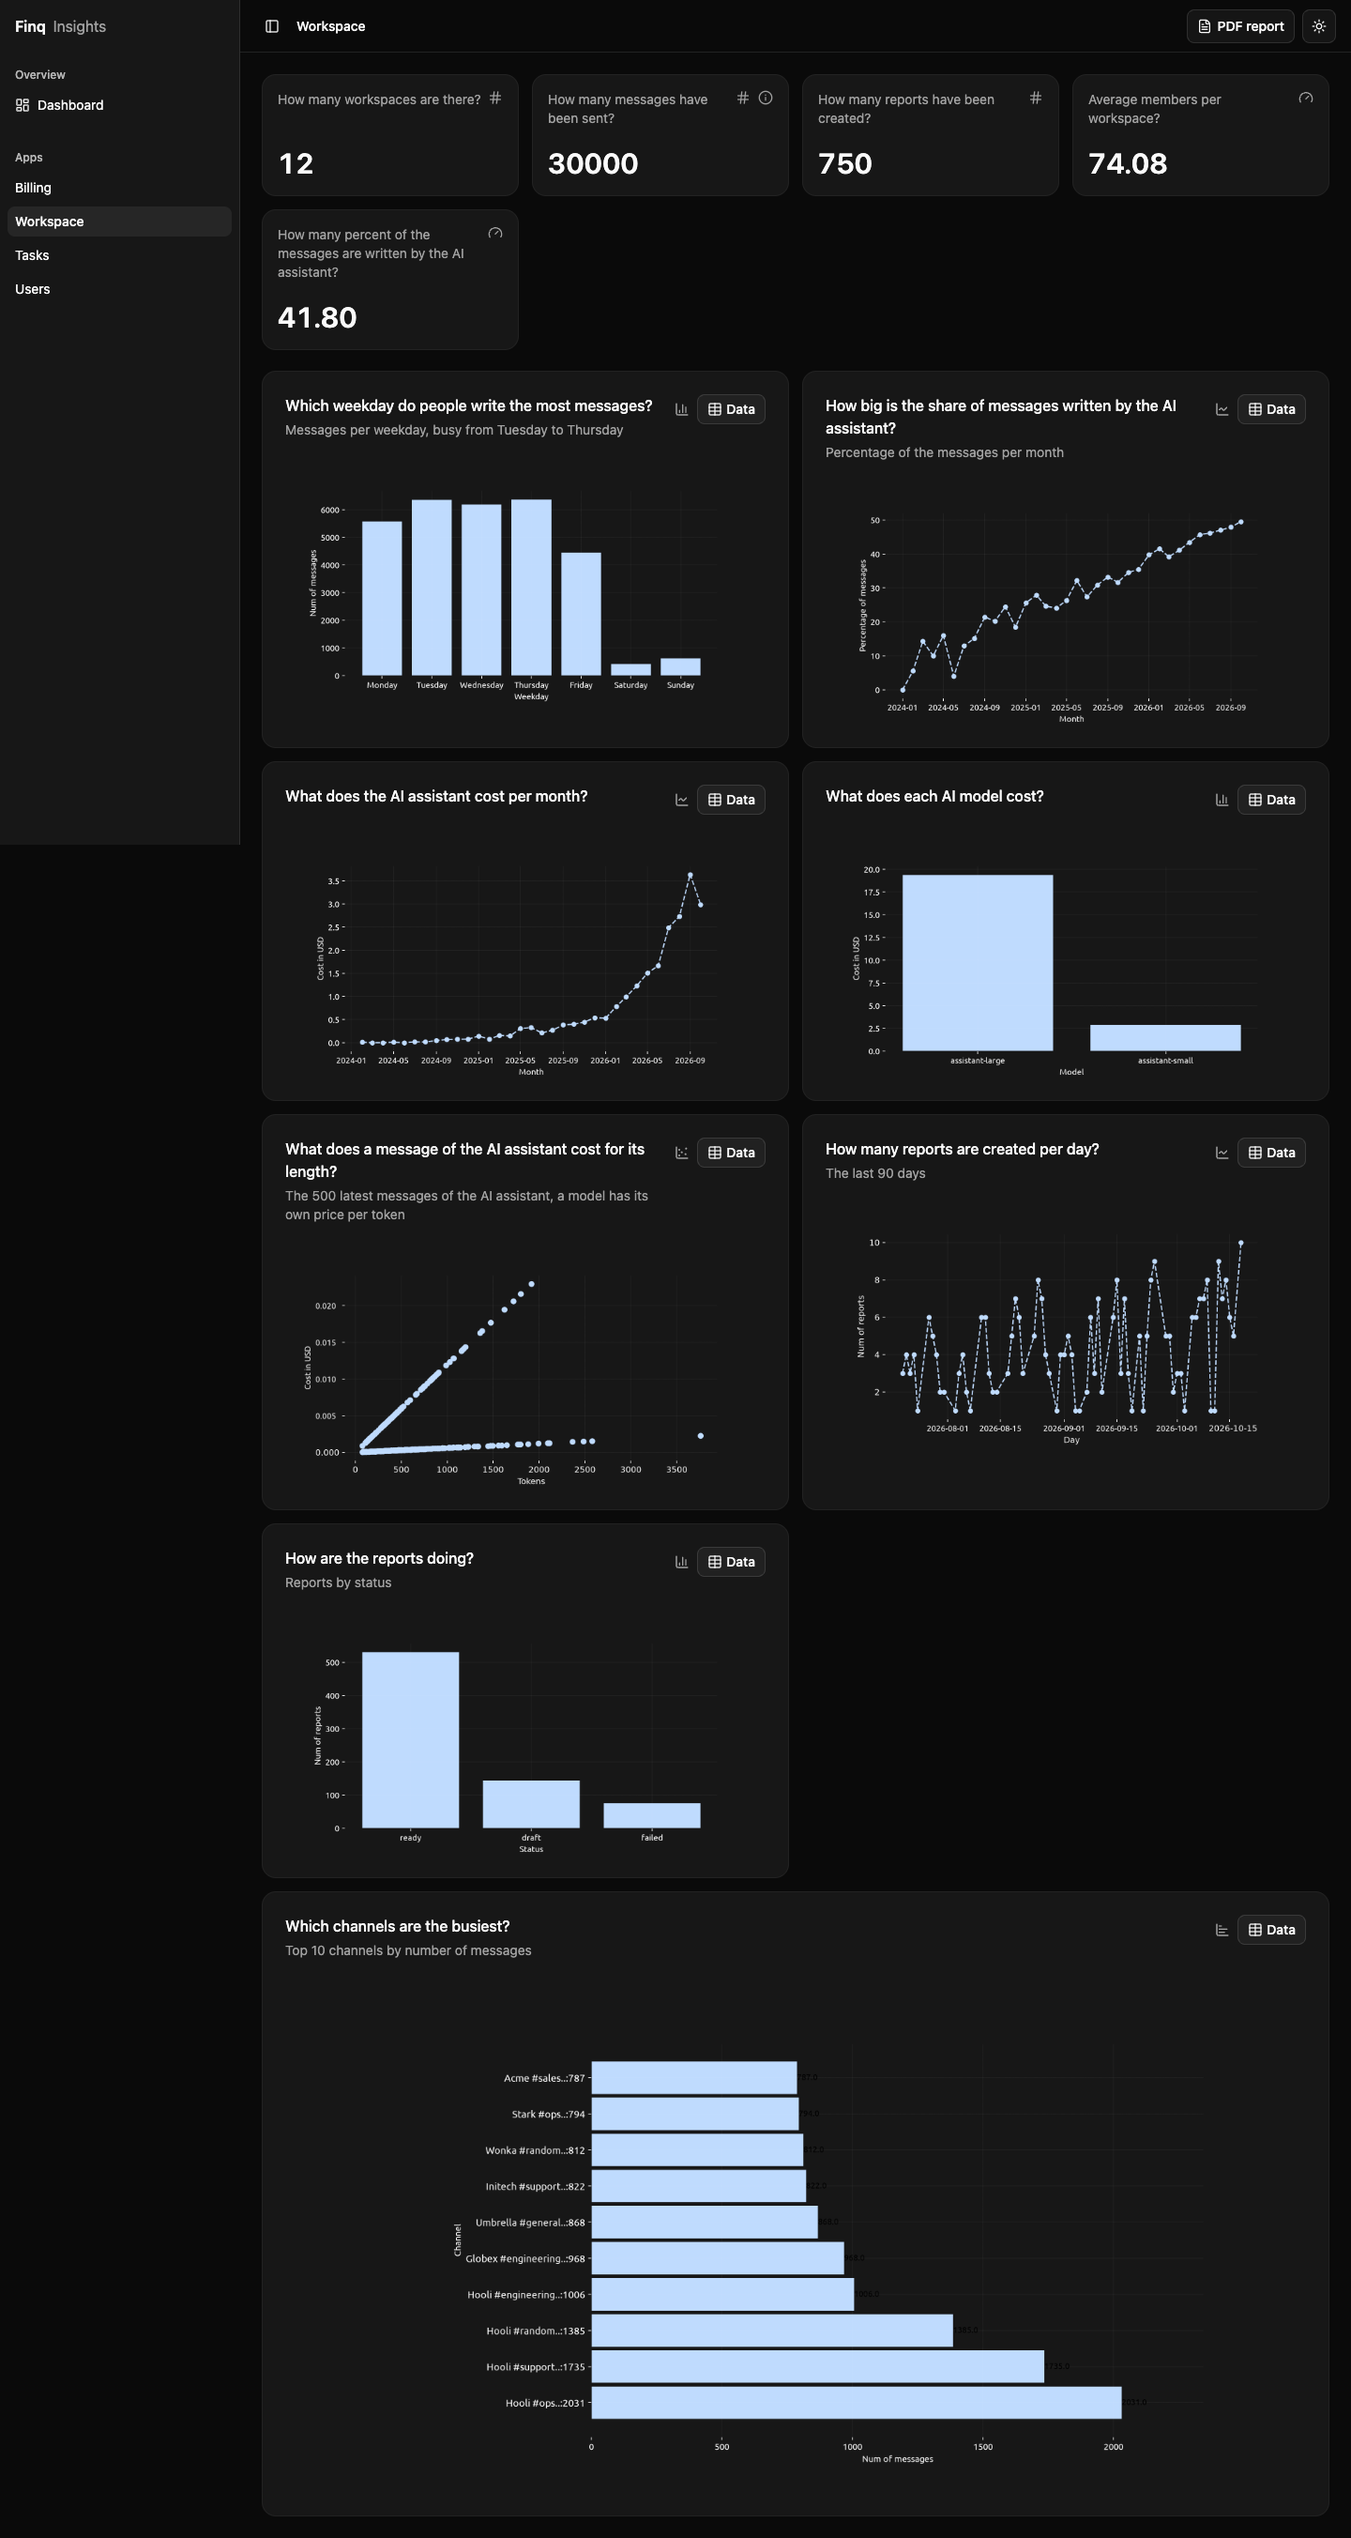
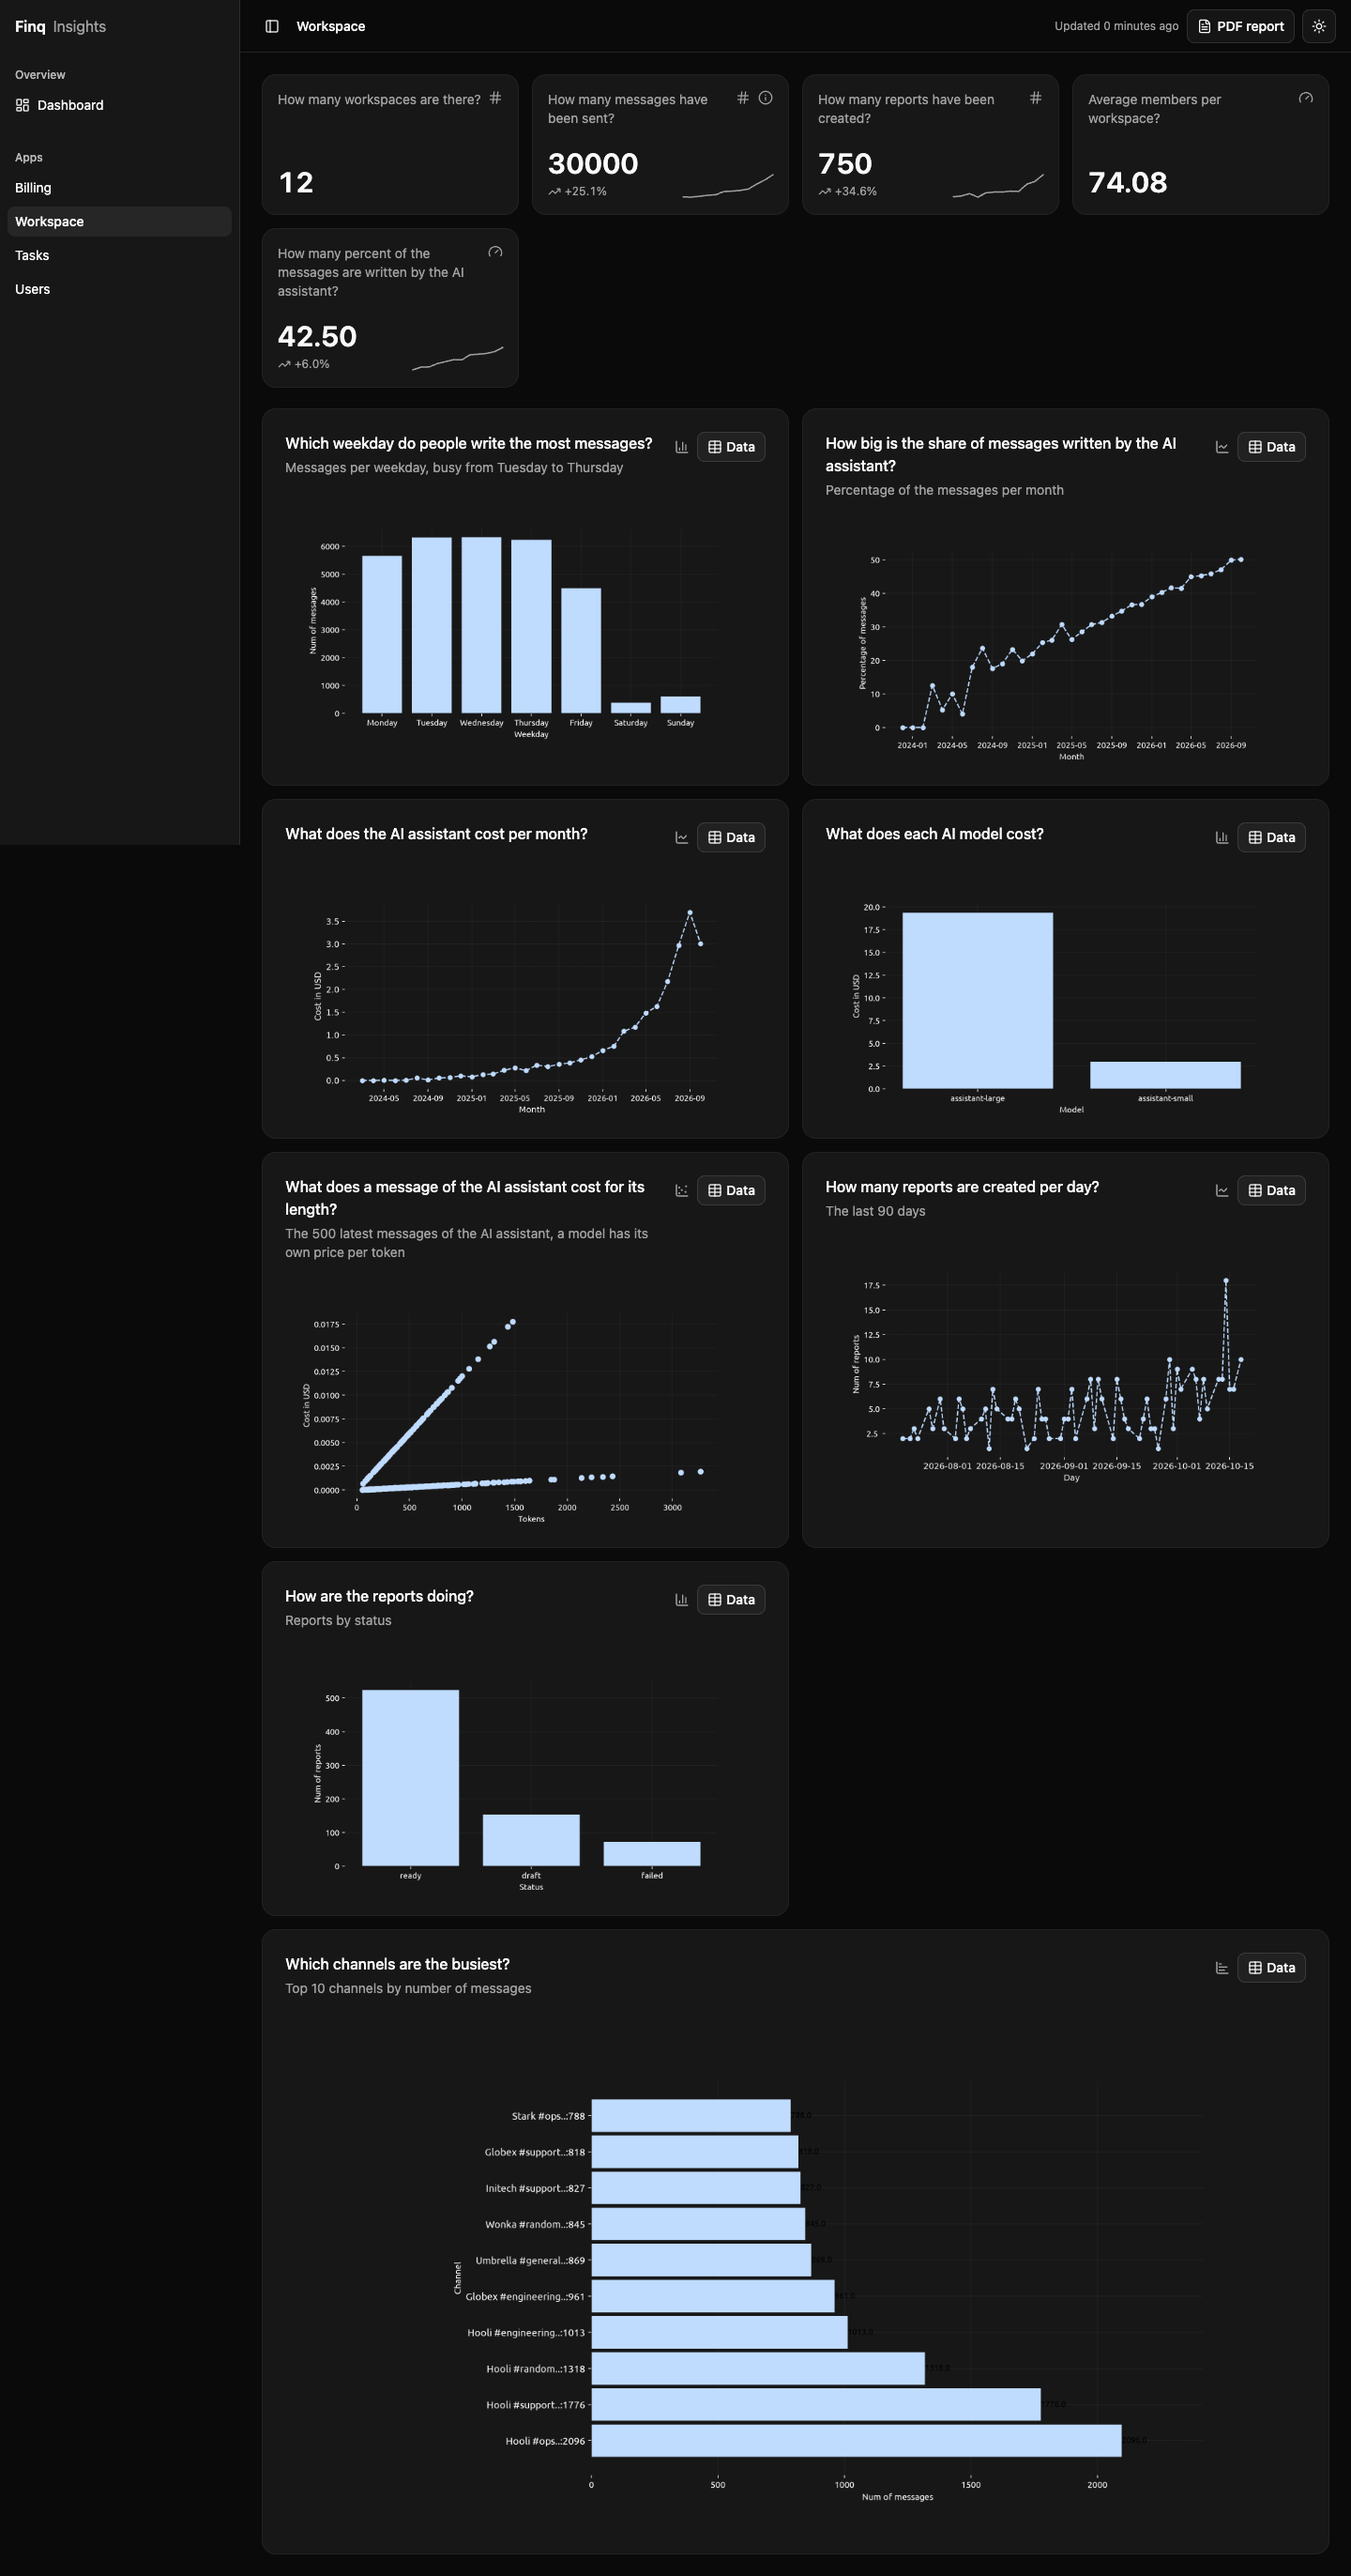
feat: add trends to the demo counters and gauges

diff --git a/project/testapp/insights.py b/project/testapp/insights.py
@@ -13,6 +13,7 @@ from django_insights.metrics_types import (
     TimeSeriesResult,
 )
 from project.testapp.models import Channel, Message, Report, Workspace
+from project.testapp.trends import monthly
 
 label = "Workspace"
 
@@ -34,13 +35,17 @@ def count_workspaces() -> int:
 
 @metrics.counter(
     question="How many messages have been sent?",
-    desc="Messages of people and of the AI assistant",
+    desc="Messages of people and of the AI assistant, the trend shows the messages per month",
+    trend=lambda: monthly(Message.objects, 'created_at'),
 )
 def count_messages() -> int:
     return Message.objects.count()
 
 
-@metrics.counter(question="How many reports have been created?")
+@metrics.counter(
+    question="How many reports have been created?",
+    trend=lambda: monthly(Report.objects, 'created_at'),
+)
 def count_reports() -> int:
     return Report.objects.count()
 
@@ -54,7 +59,13 @@ def avg_members_per_workspace() -> float:
 
 
 @metrics.gauge(
-    question="How many percent of the messages are written by the AI assistant?"
+    question="How many percent of the messages are written by the AI assistant?",
+    trend=lambda: monthly(
+        Message.objects,
+        'created_at',
+        Avg(Case(When(is_ai=True, then=1.0), default=0.0, output_field=FloatField()))
+        * 100,
+    ),
 )
 def ai_share_of_messages() -> float:
     total = Message.objects.count()

diff --git a/project/testapp/trends.py b/project/testapp/trends.py
@@ -1,0 +1,27 @@
+from __future__ import annotations
+
+from django.db.models import Count, Expression, Manager, QuerySet
+from django.db.models.functions import TruncMonth
+from django.utils import timezone
+
+from django_insights.metrics_types import TimeSeriesResult
+
+
+def monthly(
+    queryset: Manager | QuerySet,
+    field: str,
+    aggregate: Expression | None = None,
+    months: int = 12,
+) -> TimeSeriesResult:
+    """Full months only, the running month is partial and would show as a drop"""
+    end = timezone.now().replace(day=1, hour=0, minute=0, second=0, microsecond=0)
+    number = end.year * 12 + end.month - 1 - months
+    start = end.replace(year=number // 12, month=number % 12 + 1)
+    return (
+        queryset.filter(**{f'{field}__gte': start, f'{field}__lt': end})
+        .annotate(month=TruncMonth(field))
+        .values('month')
+        .annotate(total=aggregate or Count('pk'))
+        .values_list('month', 'total')
+        .order_by('month')
+    )

diff --git a/project/testapp/billing/insights.py b/project/testapp/billing/insights.py
@@ -6,6 +6,7 @@ from django.db.models.functions import TruncMonth
 from django_insights.metrics import metrics
 from django_insights.metrics_types import BarChartResult, TimeSeriesResult
 from project.testapp.billing.models import Invoice, Subscription
+from project.testapp.trends import monthly
 
 label = "Billing"
 
@@ -22,6 +23,9 @@ def count_paying_subscriptions() -> int:
 @metrics.gauge(
     question="What is the monthly recurring revenue?",
     desc="Sum of the monthly price of all active subscriptions, in USD",
+    trend=lambda: monthly(
+        Invoice.objects.filter(status=Invoice.Status.PAID), 'issued_at', Sum('amount')
+    ),
 )
 def monthly_recurring_revenue() -> float:
     total = Subscription.objects.filter(ended_at__isnull=True).aggregate(

diff --git a/project/testapp/users/insights.py b/project/testapp/users/insights.py
@@ -5,6 +5,7 @@ from django.db.models.functions import TruncYear
 
 from django_insights.metrics import metrics
 from django_insights.metrics_types import BarChartResult, TimeSeriesResult
+from project.testapp.trends import monthly
 from project.testapp.users.models import AppUser
 
 label = "Users"
@@ -12,7 +13,8 @@ label = "Users"
 
 @metrics.counter(
     question="How many users are there?",
-    desc="Everybody that ever signed up",
+    desc="Everybody that ever signed up, the trend shows the signups per month",
+    trend=lambda: monthly(AppUser.objects, 'date_joined'),
 )
 def count_users() -> int:
     return AppUser.objects.count()

diff --git a/project/testapp/tasks/insights.py b/project/testapp/tasks/insights.py
@@ -6,11 +6,15 @@ from django.db.models.functions import TruncMonth
 from django_insights.metrics import metrics
 from django_insights.metrics_types import BarChartResult, TimeSeriesResult
 from project.testapp.tasks.models import Project, Task
+from project.testapp.trends import monthly
 
 label = "Tasks"
 
 
-@metrics.counter(question="How many tasks are open?")
+@metrics.counter(
+    question="How many tasks are open?",
+    trend=lambda: monthly(Task.objects, 'created_at'),
+)
 def count_open_tasks() -> int:
     return Task.objects.filter(completed_at__isnull=True).count()
 
